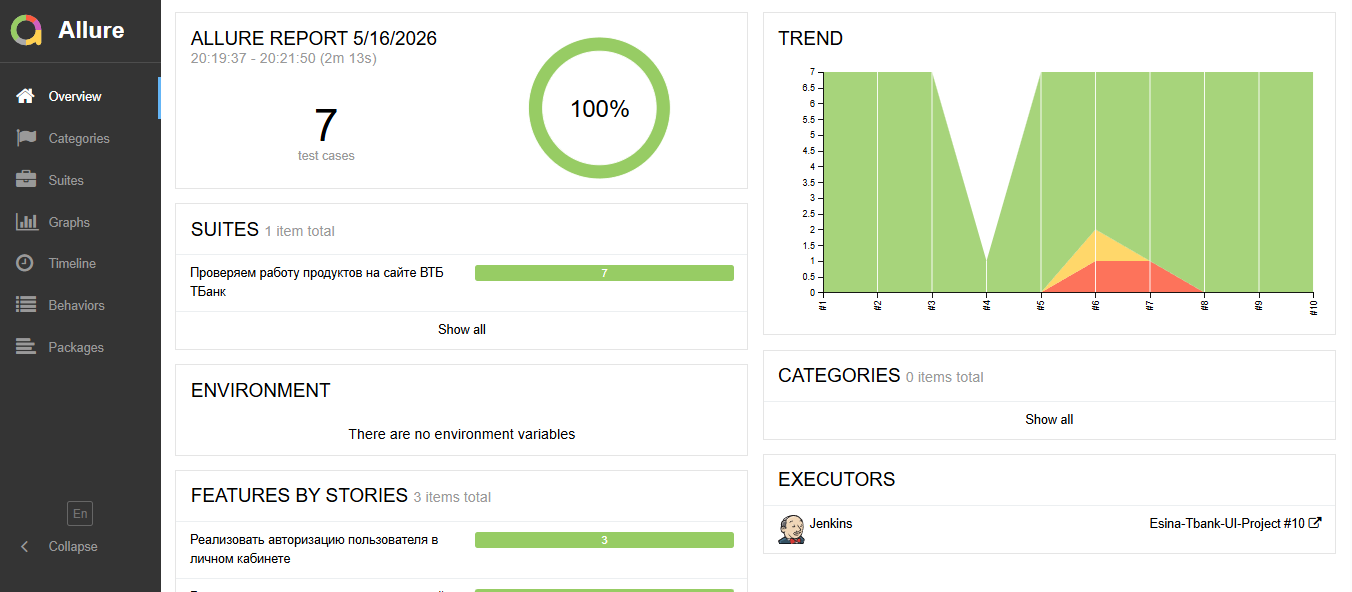
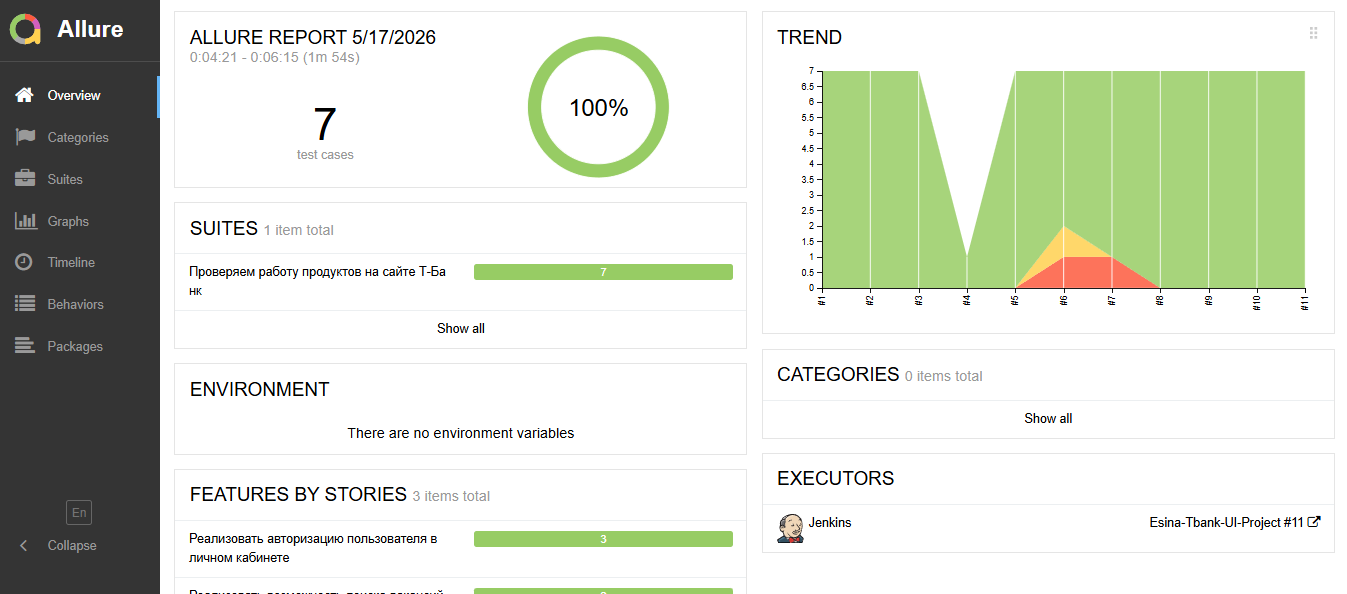
added new screenshots

diff --git a/README.md b/README.md
@@ -123,7 +123,7 @@ https://github.com/user-attachments/assets/5099644b-b58f-4c3e-b6c5-0b441caa3ad7
 ### Тест-кейсы
 > В разеделе Тест-кейсы представлен список автоматизированных и ручных тестов, реализованных в рамках проекта
 
-![TestOps-Tests.png](media/screenshots/TestOps-Tests.png)
+![TestOps-Test cases.png](media/screenshots/TestOps-Test%20cases.png)
 
 ---
 
